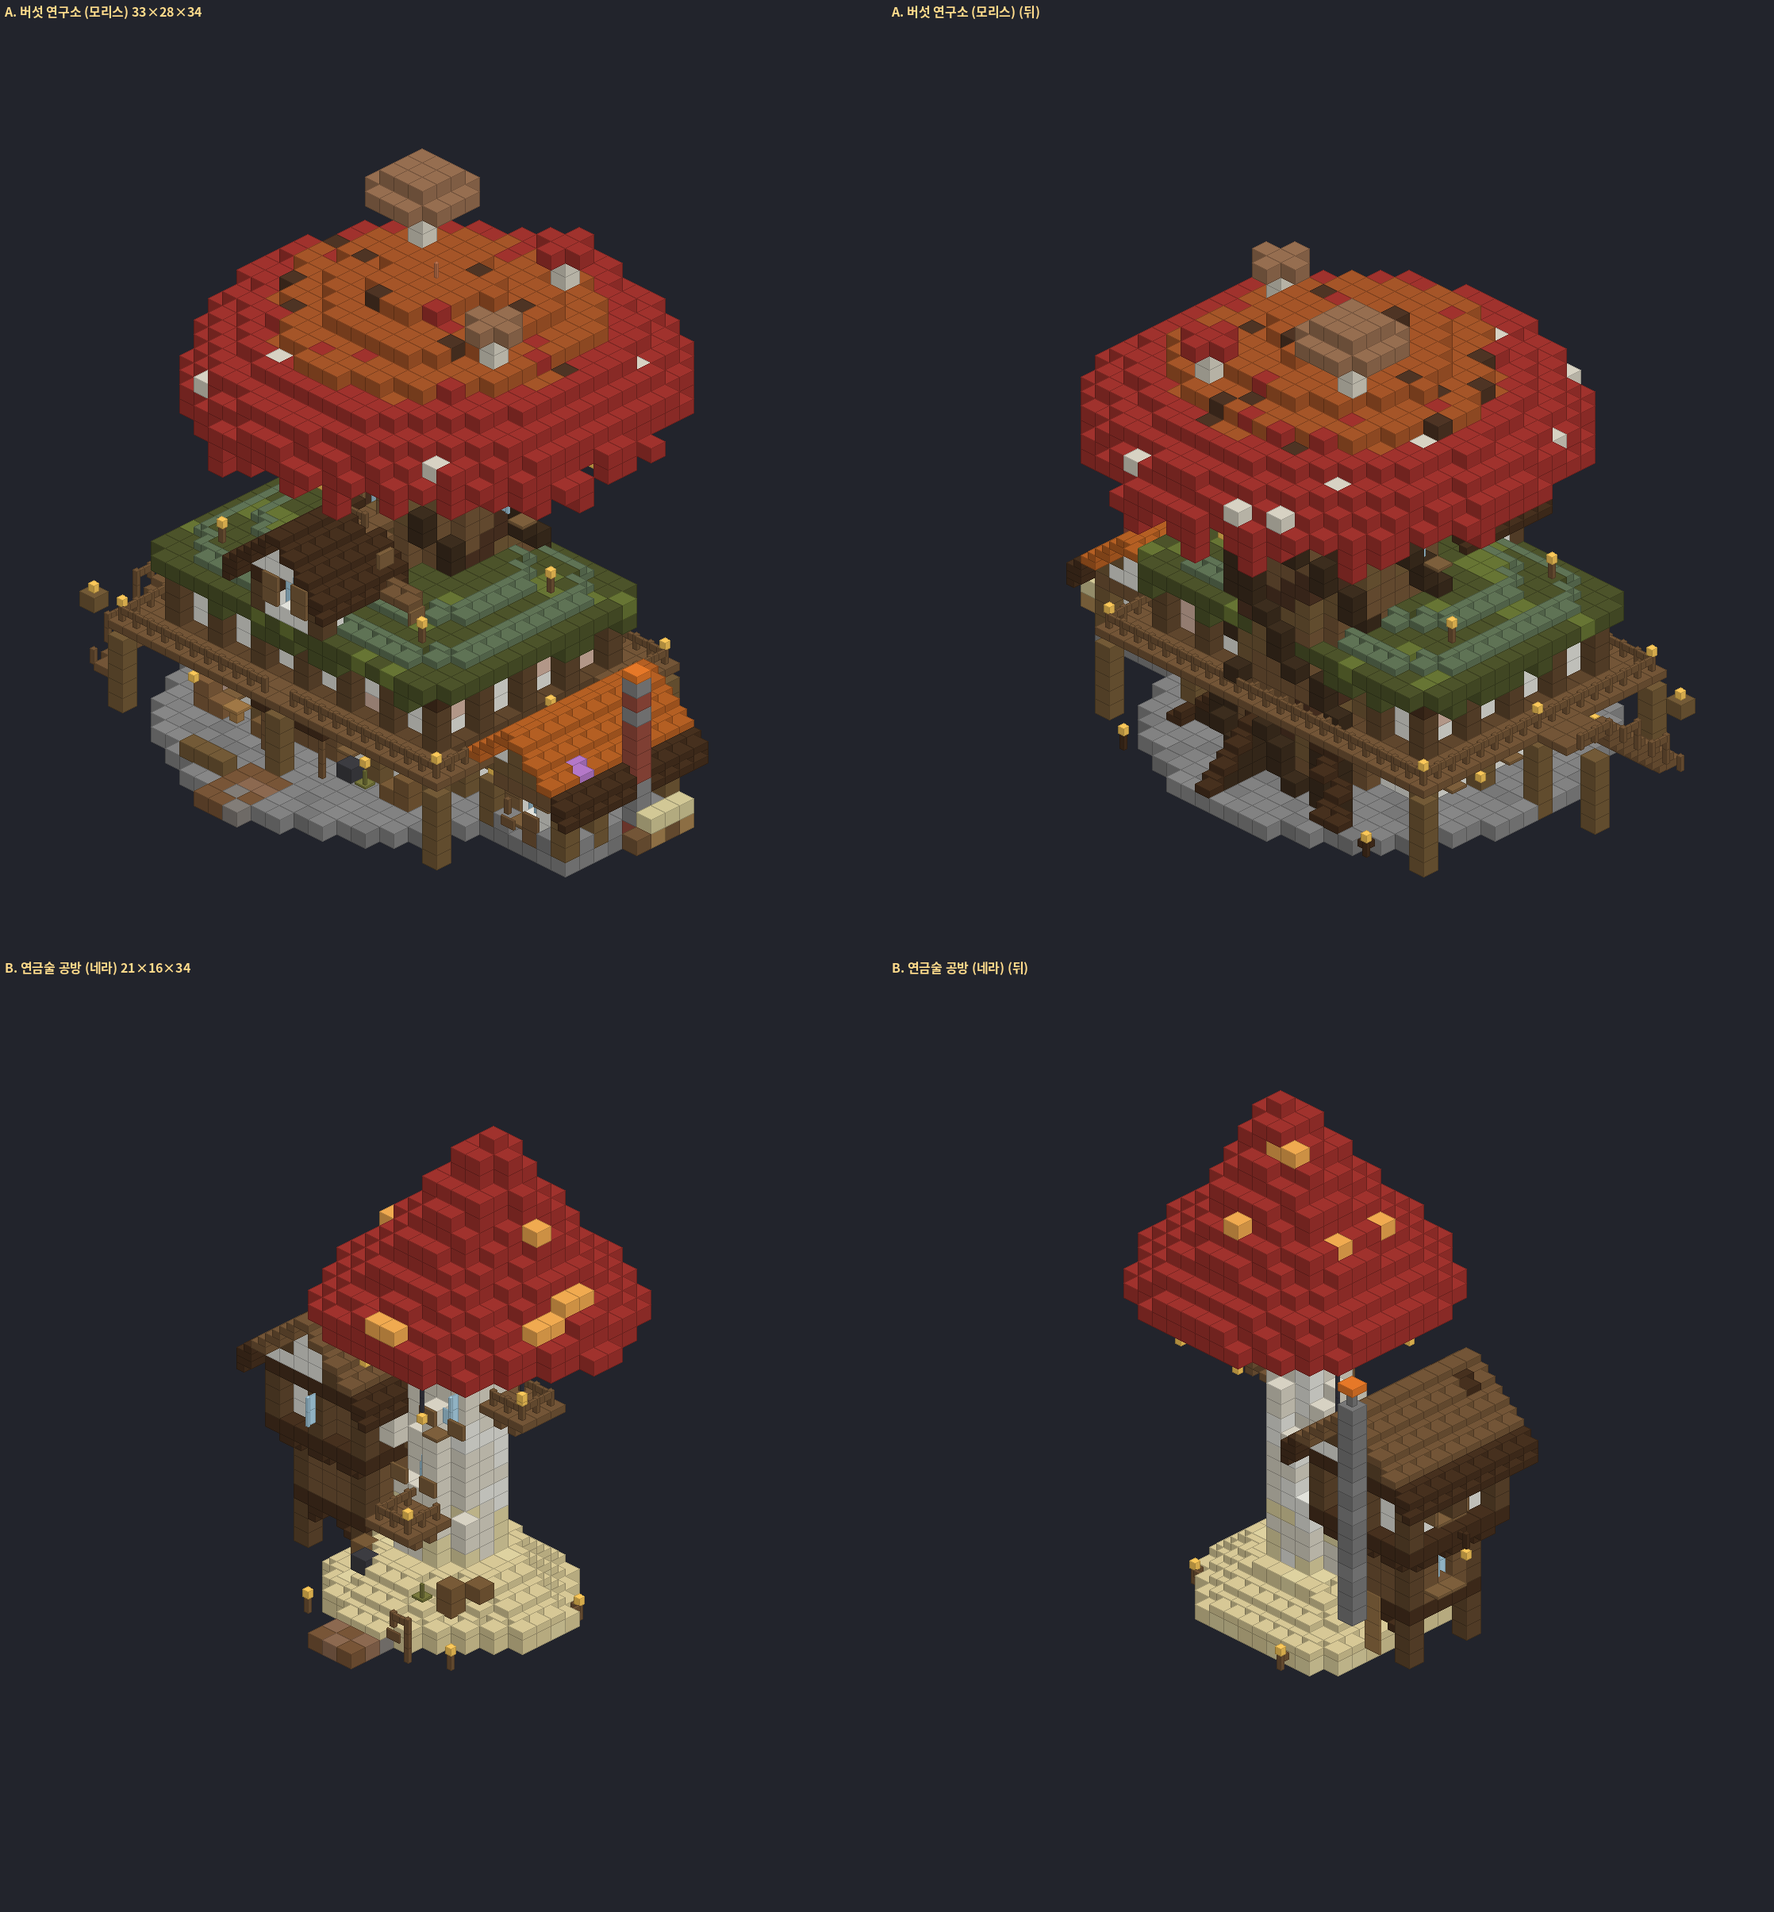
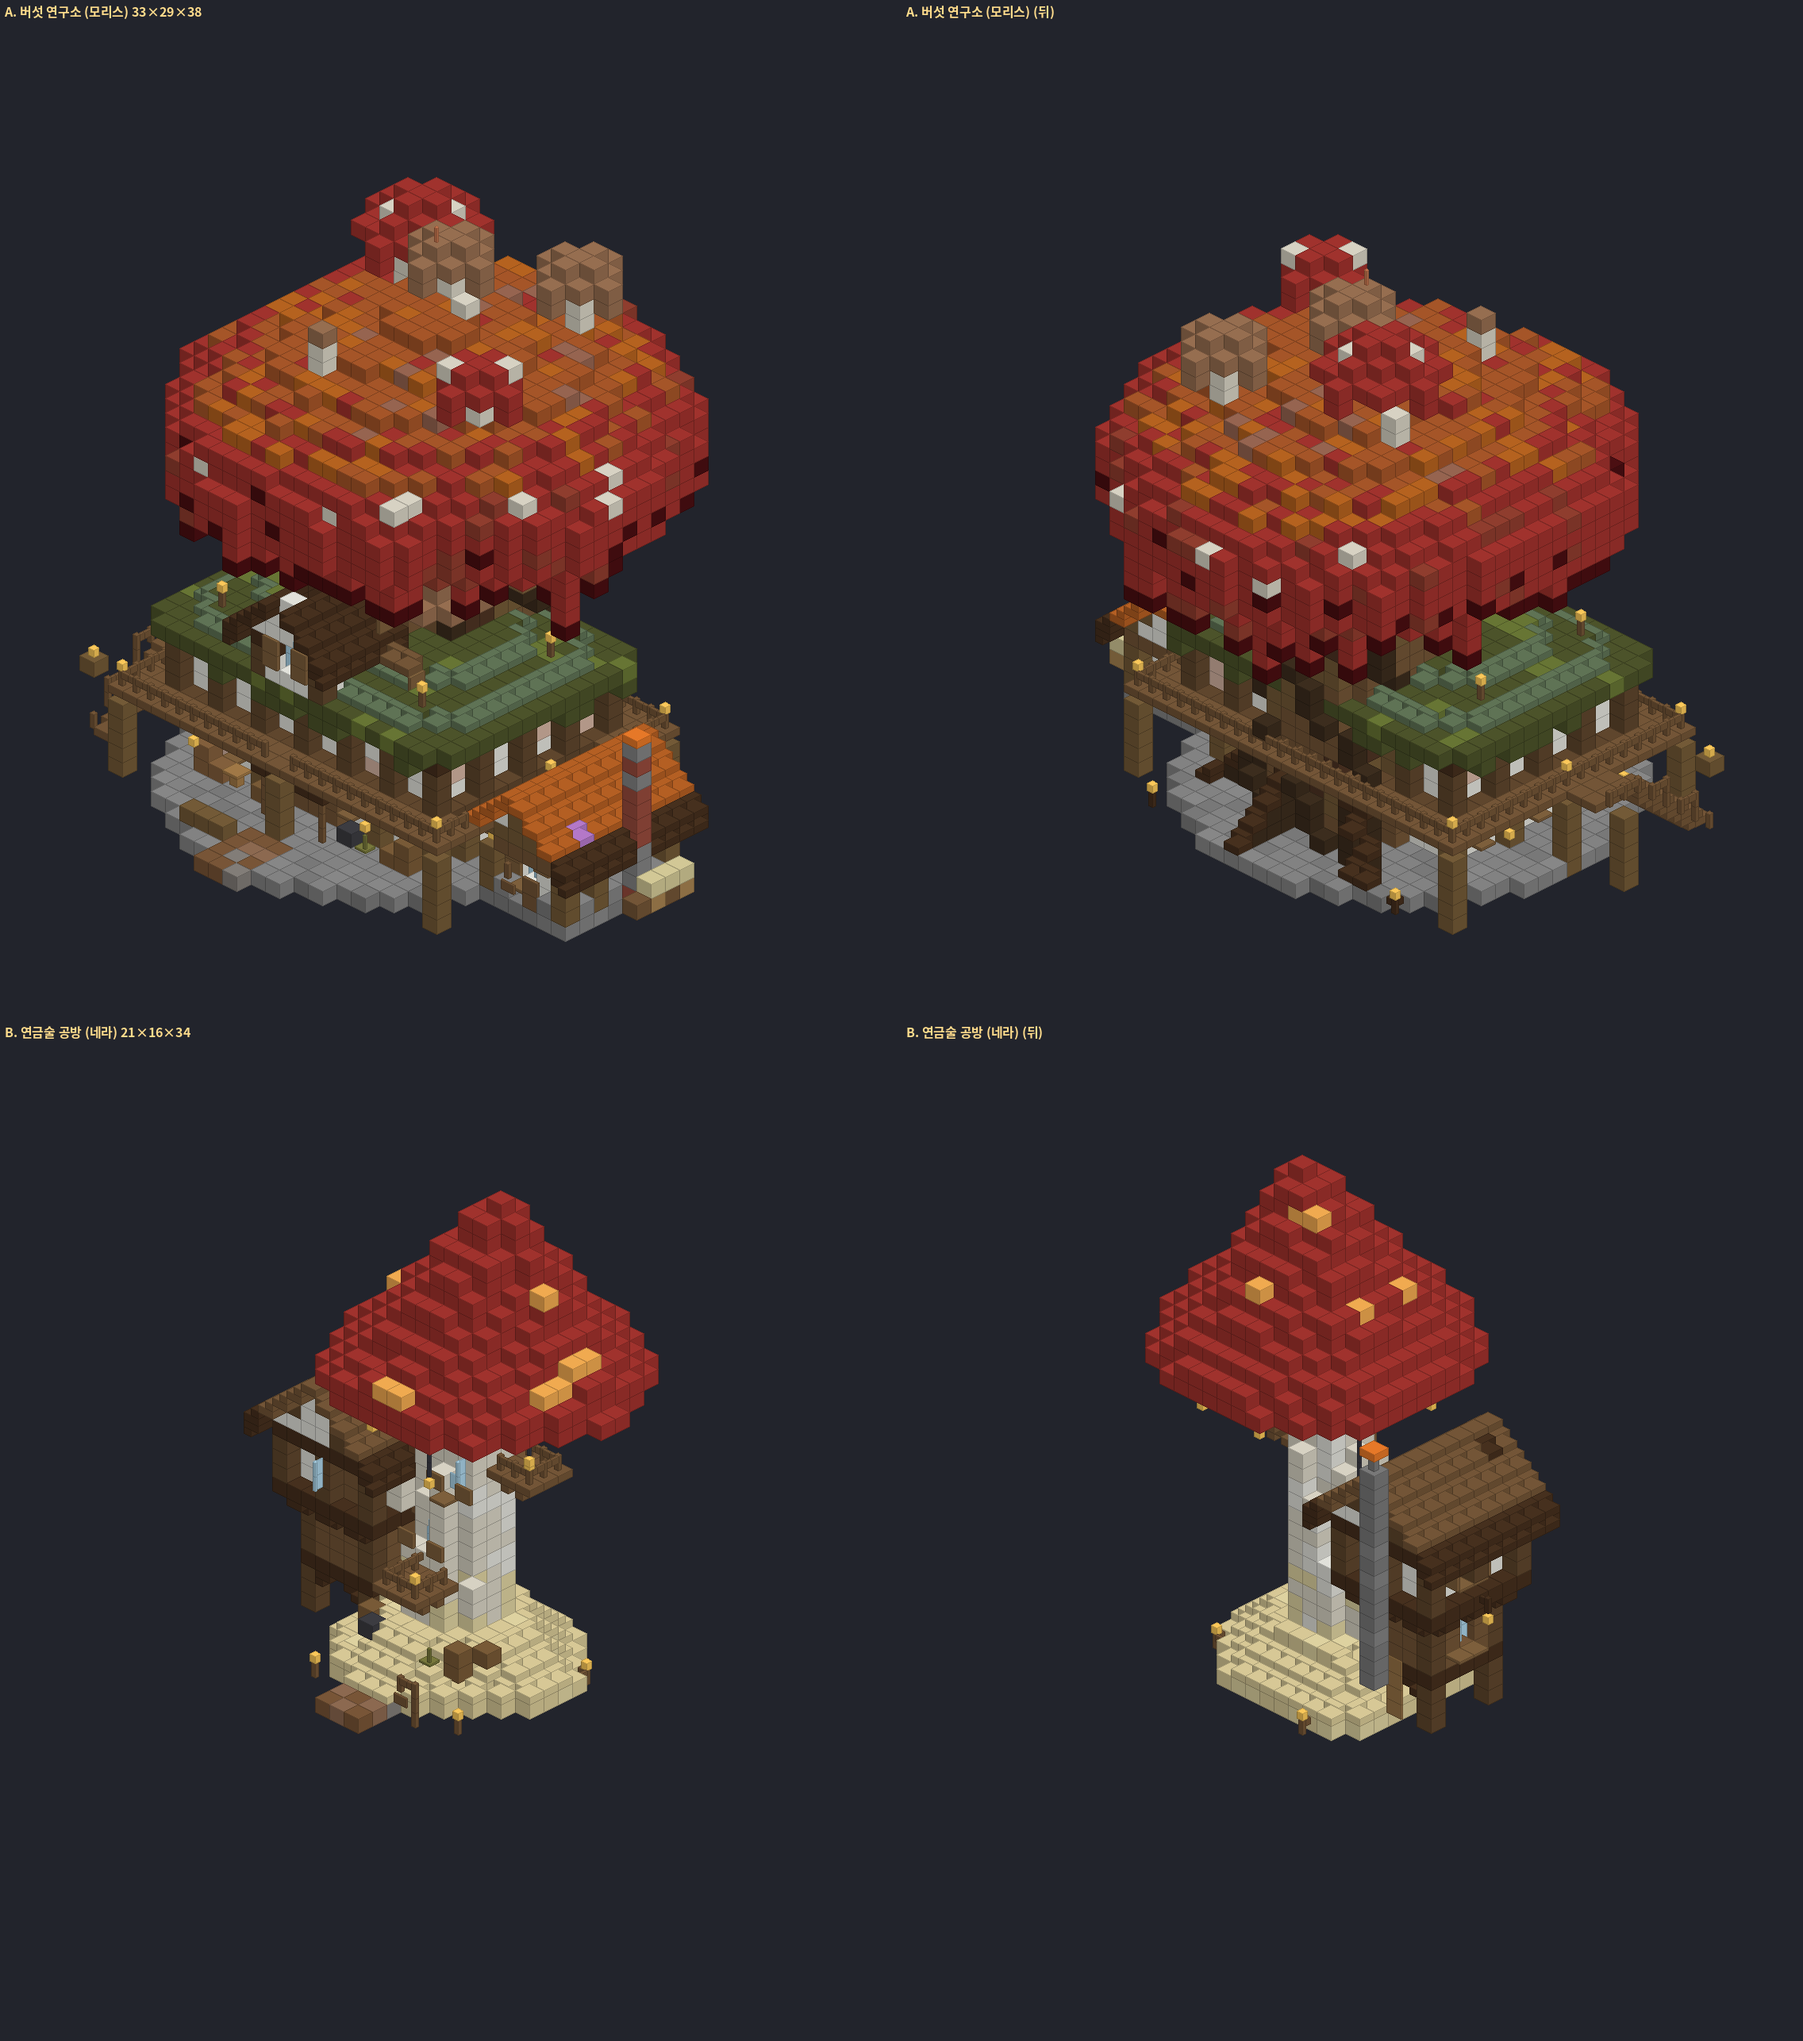
Mushroom lab: detailed cap (shoulder, gradient, drips, gills, spots, mini mushrooms, shelf fungi)
Claude-Session: https://claude.ai/code/session_01PYiSEmRV1n6PLXUiXnrrEy

diff --git a/buildings/village2_cap.py b/buildings/village2_cap.py
@@ -1,0 +1,115 @@
+"""연구소 갓 v4 (사진2 Shrumble Ville 갓 재현): 볼록한 어깨, 빨강→주황 그라데이션, 고드름 같은 흘러내림, 오목한 회색 주름, 흰 점, 작은 버섯들"""
+import math, random
+import schem
+
+schem.COL[:0] = [('red_nether_brick', (75, 15, 18)), ('tuff', (108, 109, 102)), ('red_terracotta', (143, 61, 46)),
+                 ('smooth_red_sandstone', (181, 98, 31)), ('polished_andesite', (132, 134, 133))]
+
+OUTER = {22: 12.0, 23: 12.8, 24: 13.1, 25: 12.9, 26: 12.3, 27: 11.3, 28: 9.9, 29: 7.9, 30: 5.3, 31: 2.3}
+
+def clear_old(s):
+    for (x, y, z) in list(s.b):
+        d = math.hypot(x, z)
+        if y >= 24 or (y >= 17 and d > 6.5): del s.b[(x, y, z)]
+
+def under_y(d):
+    return 22 if d > 10.3 else 23 if d > 7.3 else 24
+
+def top_y(d, nz):
+    t = None
+    for y in sorted(OUTER):
+        if OUTER[y] + nz >= d: t = y
+    return t
+
+def build(s, seed=4):
+    r = random.Random(seed)
+    ph = [r.random() * 6.28 for _ in range(4)]
+    def nz(a): return 0.35 * math.sin(3 * a + ph[0]) + 0.25 * math.sin(7 * a + ph[1]) + 0.15 * math.sin(11 * a + ph[2])
+    cells = {}
+    for x in range(-15, 16):
+        for z in range(-15, 16):
+            d = math.hypot(x, z); a = math.atan2(z, x); n = nz(a)
+            ty = top_y(d, n)
+            if ty is None: continue
+            uy = under_y(d)
+            if d <= 4.6: uy = 24
+            for y in range(uy, ty + 1):
+                if d < 4.4 and y < 24: continue
+                cells[(x, y, z)] = (d, a, y == ty, y == uy)
+    for (x, y, z), (d, a, is_top, is_bot) in cells.items():
+        if is_bot and d > 4.6 and d < OUTER[22] - 0.6:
+            # 오목한 아랫면 주름 (방사형 줄무늬)
+            st = 'tuff' if int((a + 3.1416) * 26 / 6.2832) % 2 else r.choice(['light_gray_terracotta', 'polished_andesite'])
+        elif y >= 29 or (is_top and d < 8.6):
+            st = r.choices(['orange_terracotta', 'smooth_red_sandstone', 'terracotta', 'red_mushroom_block'], [70, 16, 6, 8])[0]
+        elif y >= 27 or (is_top and d < 10.2):
+            st = r.choice(['orange_terracotta', 'red_mushroom_block', 'red_mushroom_block', 'smooth_red_sandstone'])
+        else:
+            dark = 0.12 if y <= 23 else 0.03
+            q = r.random()
+            st = 'red_nether_bricks' if q < dark else 'red_terracotta' if q < dark + 0.12 else 'red_mushroom_block'
+        s.set(x, y, z, st)
+    # 흰 점 (빨간 띠에, 2~3칸 덩어리)
+    band = [p for p, v in cells.items() if 24 <= p[1] <= 26 and not v[3] and v[0] > OUTER[p[1]] - 1.2]
+    r.shuffle(band)
+    for (x, y, z) in band[:14]:
+        s.set(x, y, z, 'mushroom_stem')
+        if r.random() < 0.6:
+            q = r.choice([(x, y + 1, z), (x + 1, y, z), (x, y, z + 1), (x - 1, y, z)])
+            if q in cells and s.get(*q) and 'red' in s.get(*q): s.set(*q, 'mushroom_stem')
+    # 고드름 흘러내림 (빽빽, 길이 1~5, 끝은 어두운 빨강)
+    for i in range(110):
+        a = i / 110 * 6.2832
+        rad = OUTER[22] + nz(a) - 0.3
+        x, z = round(math.cos(a) * rad), round(math.sin(a) * rad)
+        if (x, 22, z) not in cells: continue
+        L = r.choices([0, 1, 2, 3, 4, 5], [10, 30, 28, 18, 9, 5])[0]
+        for k in range(1, L + 1):
+            if s.get(x, 22 - k, z) is not None: break
+            s.set(x, 22 - k, z, 'red_nether_bricks' if k == L and L > 1 else 'red_mushroom_block' if r.random() > 0.2 else 'red_terracotta')
+    # 주름 사이 빛 + 사슬 랜턴
+    gills = [p for p, v in cells.items() if v[3] and 5.5 < v[0] < 10.5]
+    r.shuffle(gills)
+    for p in gills[:9]: s.set(*p, 'shroomlight')
+    for i in range(7):
+        a = i / 7 * 6.2832 + 0.4; rad = 6.5 + (i % 3) * 1.4
+        x, z = round(math.cos(a) * rad), round(math.sin(a) * rad)
+        uy = under_y(math.hypot(x, z)); L = 2 + (i * 5) % 4
+        for k in range(1, L + 1): s.set(x, uy - k, z, 'chain')
+        s.set(x, uy - L - 1, z, 'lantern[hanging=true]')
+    # 갓 위 작은 버섯 5개 (크기·색·기울기 다르게, 흰 점)
+    def topmost(x, z):
+        return max(y for (xx, y, zz) in s.b if xx == x and zz == z)
+    for (mx, mz, h, size, m, lean) in ((-5, -3, 4, 2, 'red_mushroom_block', (1, 0)), (4, -6, 3, 1, 'brown_mushroom_block', (0, 0)),
+                                       (7, 3, 2, 1, 'red_mushroom_block', (0, 1)), (-2, 6, 2, 0, 'brown_mushroom_block', (0, 0)),
+                                       (1, -1, 3, 1, 'brown_mushroom_block', (-1, 0))):
+        y0 = topmost(mx, mz); x, z = mx, mz
+        for k in range(1, h + 1):
+            if k == h - 1 and lean != (0, 0): x += lean[0]; z += lean[1]
+            s.set(x, y0 + k, z, 'mushroom_stem')
+        yc = y0 + h + 1
+        if size == 0:
+            s.set(x, yc, z, m)
+            for dx, dz in ((1, 0), (-1, 0), (0, 1), (0, -1)): s.set(x + dx, yc - 1, z + dz, m) if False else None
+            continue
+        R = size + 0.6
+        for dx in range(-size - 1, size + 2):
+            for dz in range(-size - 1, size + 2):
+                dd = math.hypot(dx, dz)
+                if dd <= R + 0.5: s.set(x + dx, yc, z + dz, m)
+                if dd <= R - 0.6: s.set(x + dx, yc + 1, z + dz, m)
+                if size >= 2 and dd <= 1.0: s.set(x + dx, yc + 2, z + dz, m)
+        for dx, dz in ((size + 1, 0), (-size - 1, 0), (0, size + 1), (0, -size - 1)):
+            s.set(x + dx, yc - 1, z + dz, m)   # 처진 가장자리
+        if m.startswith('red'):
+            for (dx, dz) in ((1, -1), (-1, 1)) if size >= 1 else ():
+                s.set(x + dx, yc + 1, z + dz, 'mushroom_stem')
+    # 몸통 선반버섯 3개 (갈색, 반원 2단)
+    for (a, y) in ((0.7, 15), (2.8, 18), (4.6, 16)):
+        cx, cz = math.cos(a) * 4.6, math.sin(a) * 4.6
+        for dx in range(-3, 4):
+            for dz in range(-3, 4):
+                x, z = round(cx + dx), round(cz + dz)
+                d0 = math.hypot(x - cx, z - cz); dt = math.hypot(x, z)
+                if dt > 4.6 and d0 <= 2.3 and s.get(x, y, z) is None: s.set(x, y, z, 'brown_mushroom_block')
+                if dt > 4.6 and d0 <= 1.4 and s.get(x, y + 1, z) is None: s.set(x, y + 1, z, 'brown_mushroom_block')
